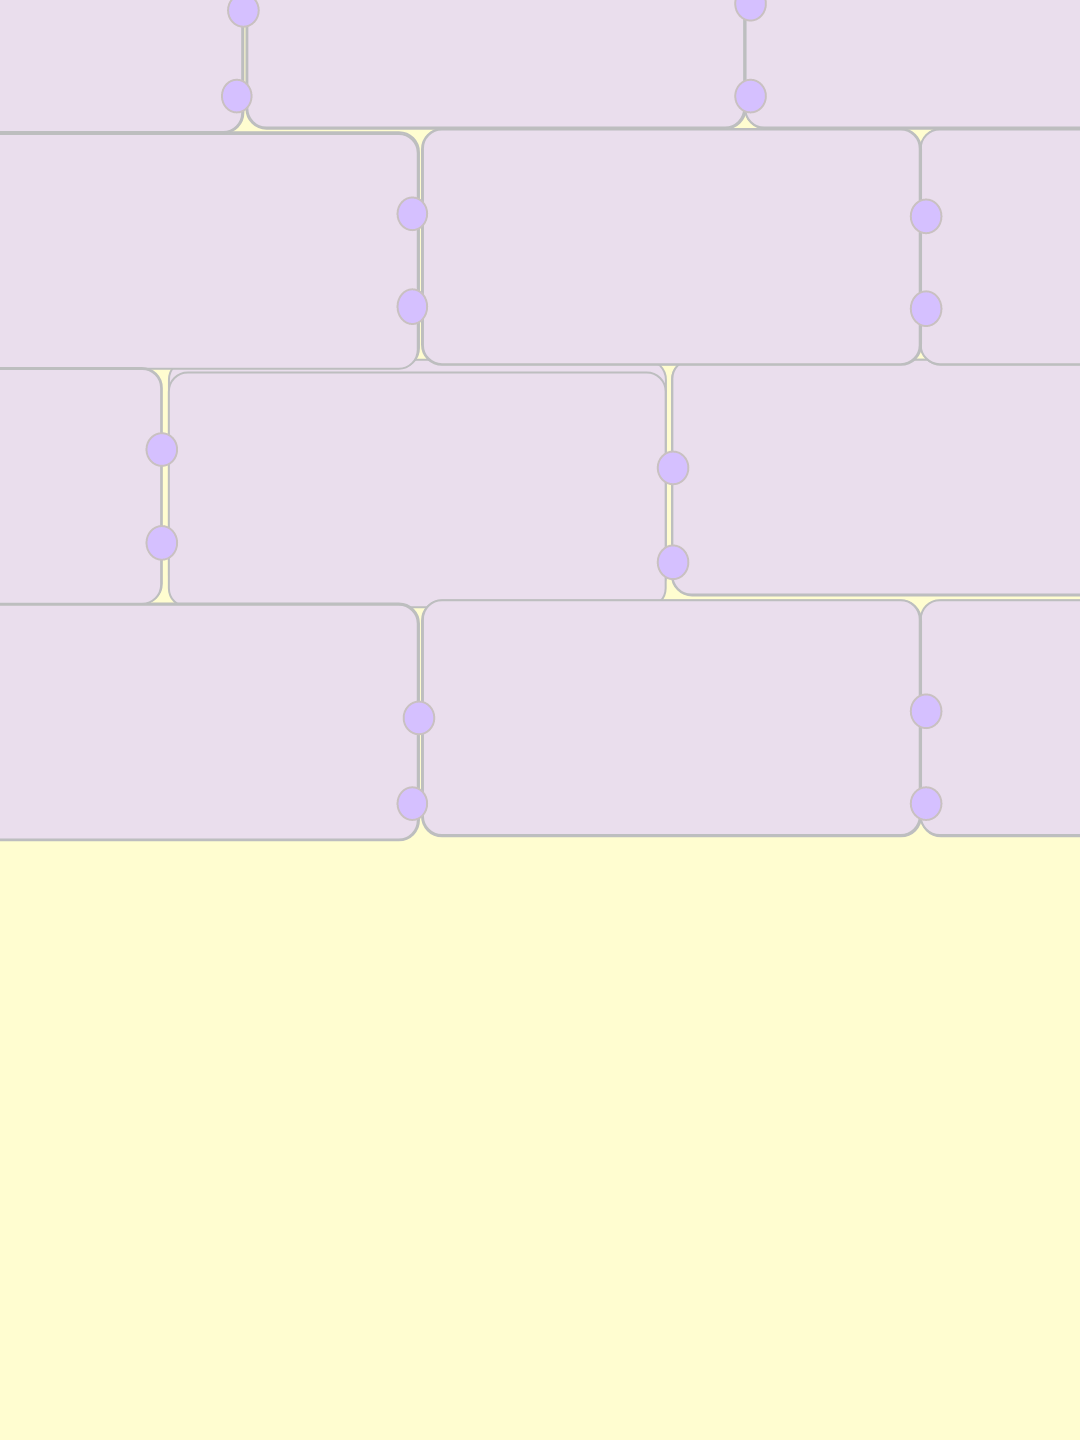
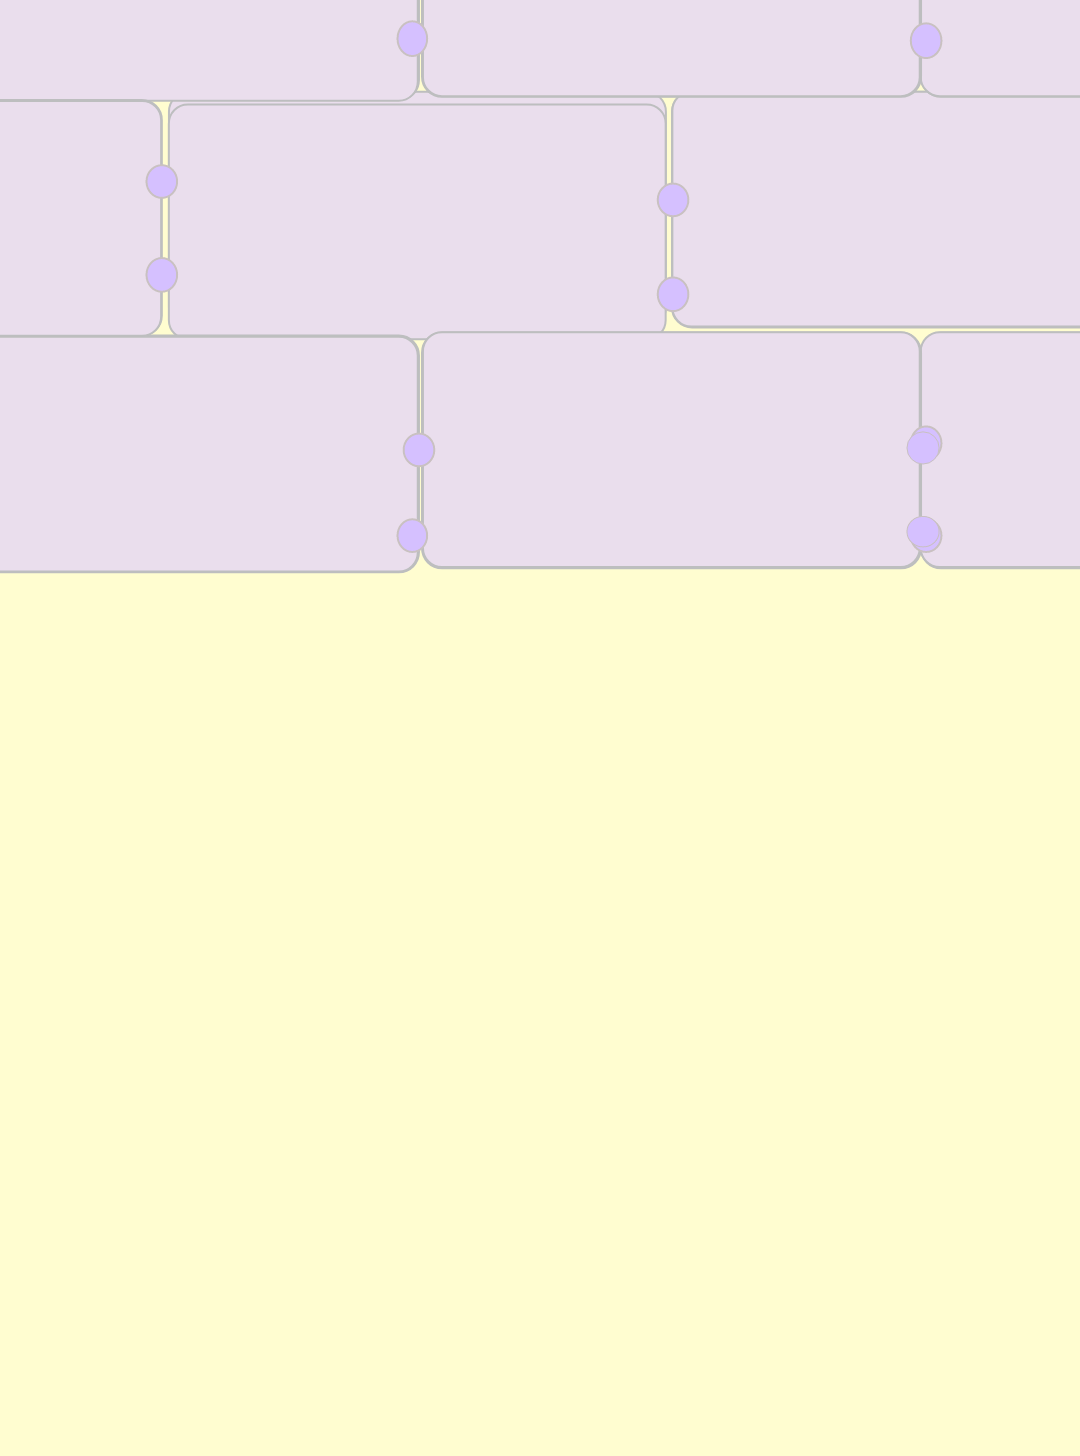
no message

Changed region(s): [[0.0, 0.0, 1.0, 0.5938]]

diff --git a/dev/sass/page/_myUFO_wardrobe.scss b/dev/sass/page/_myUFO_wardrobe.scss
@@ -266,7 +266,7 @@
 @media all and (max-width:575px) {
 	.myUFO_wardrobe_body .wardrobe_left .wardrobe_border {
 		position: absolute;
-		bottom: 58%
+		bottom: 48%;
 	}
 }
 
@@ -328,7 +328,7 @@
 @media all and (max-width:575px) {
 	.myUFO_wardrobe_body .wardrobe_left .wardrobe_character {
 		position: absolute;
-		bottom: 62%;
+		bottom: 53%;
 		width: 100%
 	}
 }
@@ -813,10 +813,9 @@
 @media all and (max-width:575px) {
 	.myUFO_wardrobe_body .Choose_cabinet {
 		position: absolute;
-		bottom: 24%;
+		bottom: 21%;
 		height: 40%;
 		width: 100%;
-	
 		left: 0 ; 
 		z-index: 50
 	}
@@ -900,7 +899,7 @@
     .myUFO_wardrobe_body .Choose_cabinet .tab-content .tab-content_four .swiper-container, 
     .myUFO_wardrobe_body .Choose_cabinet .tab-content .tab-content_Fives .swiper-container, 
     .myUFO_wardrobe_body .Choose_cabinet .tab-content .tab-content_six .swiper-container {
-        // padding: 5%;
+        padding: 15px 0px 0px 0px;
         display: block;
     }
     

diff --git a/dev/myUFO.html b/dev/myUFO.html
@@ -19,7 +19,7 @@
             <div class="figure"><img src="./img/mimi/Backgroundimage.png" alt="#"  /></div>
             <div class="figure2"><img src="./img/mimi/Backgroundimage2.png" alt="#"  /></div>
             <div class="figure3"><img src="./img/mimi/Backgroundimaipad.png" alt="#" ></div>
-            <div class="figure4"><img src="./img/mimi/Backgroundimage_phone.png" alt="#" ></div>
+            <div class="figure4"><img src="./img/mimi/Backgroundimage_phone2.png" alt="#" ></div>
             </div>  
             <div class="object">
             <!--窗戶-->

diff --git a/dev/sass/page/_myUFO.scss b/dev/sass/page/_myUFO.scss
@@ -494,7 +494,7 @@
 @media all and (max-width:575px) {
 	.favorites {
 		position: absolute;
-		bottom: 27%;
+		bottom: 20%;
 		right: 4%;
 		margin: 0;
 		padding: 0;
